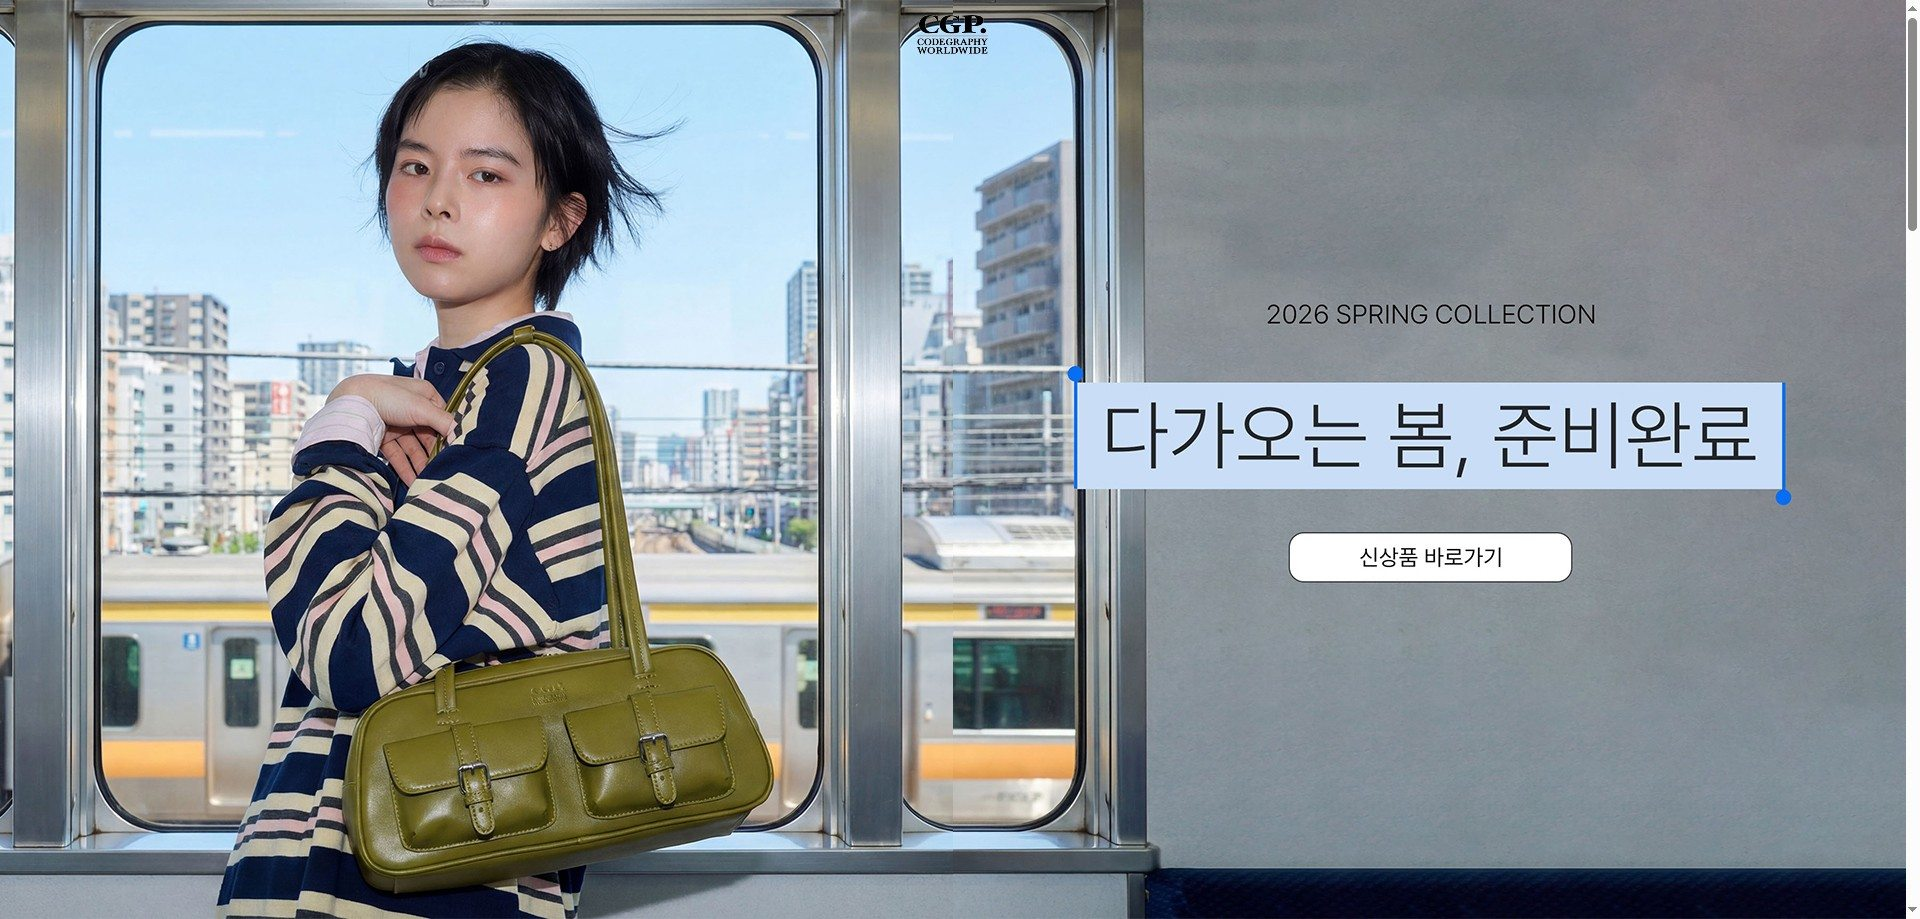
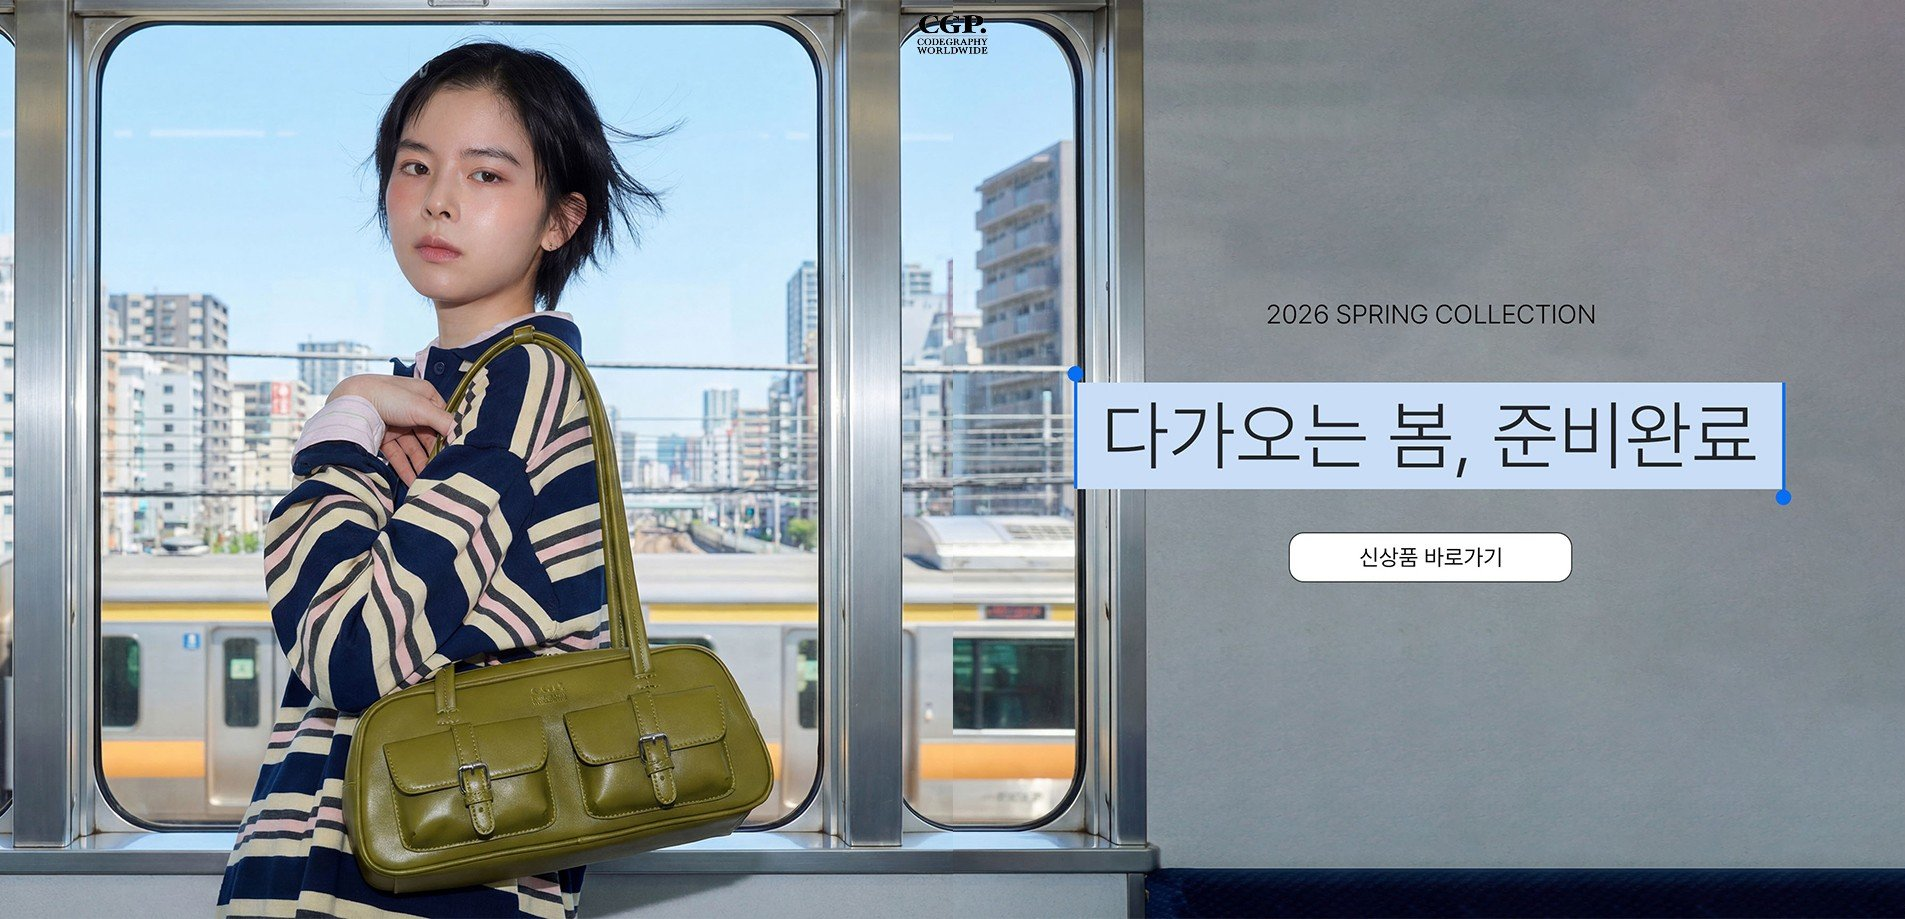
PC 배너 4장의 오른쪽 스크롤바 띠 제거(15px 크롭)

diff --git a/work/codegraphy.html b/work/codegraphy.html
@@ -89,10 +89,10 @@
       </div>
     </div>
       <article class="pw" data-cat="event" id="w01">
-        <header class="pw__h"><div class="pw__h-in"><span class="pw__n">01</span><p class="pw__rule"><span>웹디자이너로써</span><i></i><b>기획전·배너</b><i></i><span>제작을 했습니다.</span></p><div class="pw__t"><h3><em>[ 코드그라피 ]</em> 가을 시즌 배너</h3><p>가을 시즌 신상 PC 배너와 모바일 배너</p><dl class="pw__meta"><div><dt>프로젝트 기간</dt><dd>2025.09</dd></div><div><dt>Main Colors</dt><dd class="pw__chips"><i style="--c:#F8F7F4"></i>F8F7F4<i style="--c:#A49F9D"></i>A49F9D</dd></div></dl></div></div></header>
+        <header class="pw__h"><div class="pw__h-in"><span class="pw__n">01</span><p class="pw__rule"><span>웹디자이너로써</span><i></i><b>기획전·배너</b><i></i><span>제작을 했습니다.</span></p><div class="pw__t"><h3><em>[ 코드그라피 ]</em> 가을 시즌 배너</h3><p>가을 시즌 신상 PC 배너와 모바일 배너</p><dl class="pw__meta"><div><dt>프로젝트 기간</dt><dd>2025.09</dd></div><div><dt>Main Colors</dt><dd class="pw__chips"><i style="--c:#F8F7F4"></i>F8F7F4<i style="--c:#A5A09D"></i>A5A09D</dd></div></dl></div></div></header>
         <div class="pw__body">
         <div class="pw__tri">
-          <figure class="pw__img pw__img--tri" style="--ar:2.085"><figcaption>PC</figcaption><img src="../images/work/cg-fall-pc.jpg" width="1920" height="921" alt="코드그라피 PC 배너" loading="lazy" decoding="async"></figure>
+          <figure class="pw__img pw__img--tri" style="--ar:2.068"><figcaption>PC</figcaption><img src="../images/work/cg-fall-pc.jpg" width="1905" height="921" alt="코드그라피 PC 배너" loading="lazy" decoding="async"></figure>
           <figure class="pw__img pw__img--tri" style="--ar:0.650"><figcaption>MOBILE</figcaption><img src="../images/work/cg-fall-mo.jpg" width="786" height="1210" alt="코드그라피 모바일 배너" loading="lazy" decoding="async"></figure>
         </div>
         </div>
@@ -128,19 +128,19 @@
         </div>
       </article>
       <article class="pw" data-cat="event" id="w06">
-        <header class="pw__h"><div class="pw__h-in"><span class="pw__n">06</span><p class="pw__rule"><span>웹디자이너로써</span><i></i><b>기획전·배너</b><i></i><span>제작을 했습니다.</span></p><div class="pw__t"><h3><em>[ 코드그라피 ]</em> 새해 배너</h3><p>AI로 제작한 2026 새해 PC 배너와 모바일 배너</p><dl class="pw__meta"><div><dt>프로젝트 기간</dt><dd>2026.01</dd></div><div><dt>Main Colors</dt><dd class="pw__chips"><i style="--c:#F89F7F"></i>F89F7F<i style="--c:#FA2D31"></i>FA2D31</dd></div></dl></div></div></header>
+        <header class="pw__h"><div class="pw__h-in"><span class="pw__n">06</span><p class="pw__rule"><span>웹디자이너로써</span><i></i><b>기획전·배너</b><i></i><span>제작을 했습니다.</span></p><div class="pw__t"><h3><em>[ 코드그라피 ]</em> 새해 배너</h3><p>AI로 제작한 2026 새해 PC 배너와 모바일 배너</p><dl class="pw__meta"><div><dt>프로젝트 기간</dt><dd>2026.01</dd></div><div><dt>Main Colors</dt><dd class="pw__chips"><i style="--c:#F8A07F"></i>F8A07F<i style="--c:#FA2D31"></i>FA2D31</dd></div></dl></div></div></header>
         <div class="pw__body">
         <div class="pw__tri">
-          <figure class="pw__img pw__img--tri" style="--ar:2.089"><figcaption>PC</figcaption><img src="../images/work/cg-newyear-pc.jpg" width="1920" height="919" alt="코드그라피 PC 배너" loading="lazy" decoding="async"></figure>
+          <figure class="pw__img pw__img--tri" style="--ar:2.073"><figcaption>PC</figcaption><img src="../images/work/cg-newyear-pc.jpg" width="1905" height="919" alt="코드그라피 PC 배너" loading="lazy" decoding="async"></figure>
           <figure class="pw__img pw__img--tri" style="--ar:0.650"><figcaption>MOBILE</figcaption><img src="../images/work/cg-newyear-mo.jpg" width="786" height="1210" alt="코드그라피 모바일 배너" loading="lazy" decoding="async"></figure>
         </div>
         </div>
       </article>
       <article class="pw" data-cat="event" id="w07">
-        <header class="pw__h"><div class="pw__h-in"><span class="pw__n">07</span><p class="pw__rule"><span>웹디자이너로써</span><i></i><b>기획전·배너</b><i></i><span>제작을 했습니다.</span></p><div class="pw__t"><h3><em>[ 코드그라피 ]</em> 봄 시즌 배너</h3><p>2026 SPRING COLLECTION 신상품 PC 배너와 모바일 배너</p><dl class="pw__meta"><div><dt>프로젝트 기간</dt><dd>2026.03</dd></div><div><dt>Main Colors</dt><dd class="pw__chips"><i style="--c:#797C80"></i>797C80<i style="--c:#ACBDCC"></i>ACBDCC</dd></div></dl></div></div></header>
+        <header class="pw__h"><div class="pw__h-in"><span class="pw__n">07</span><p class="pw__rule"><span>웹디자이너로써</span><i></i><b>기획전·배너</b><i></i><span>제작을 했습니다.</span></p><div class="pw__t"><h3><em>[ 코드그라피 ]</em> 봄 시즌 배너</h3><p>2026 SPRING COLLECTION 신상품 PC 배너와 모바일 배너</p><dl class="pw__meta"><div><dt>프로젝트 기간</dt><dd>2026.03</dd></div><div><dt>Main Colors</dt><dd class="pw__chips"><i style="--c:#859099"></i>859099<i style="--c:#C5E9FB"></i>C5E9FB</dd></div></dl></div></div></header>
         <div class="pw__body">
         <div class="pw__tri">
-          <figure class="pw__img pw__img--tri" style="--ar:2.089"><figcaption>PC</figcaption><img src="../images/work/cg-spring-pc.jpg" width="1920" height="919" alt="코드그라피 PC 배너" loading="lazy" decoding="async"></figure>
+          <figure class="pw__img pw__img--tri" style="--ar:2.073"><figcaption>PC</figcaption><img src="../images/work/cg-spring-pc.jpg" width="1905" height="919" alt="코드그라피 PC 배너" loading="lazy" decoding="async"></figure>
           <figure class="pw__img pw__img--tri" style="--ar:0.650"><figcaption>MOBILE</figcaption><img src="../images/work/cg-spring-mo.jpg" width="786" height="1210" alt="코드그라피 모바일 배너" loading="lazy" decoding="async"></figure>
         </div>
         </div>
@@ -173,10 +173,10 @@
         </div>
       </article>
       <article class="pw" data-cat="event" id="w11">
-        <header class="pw__h"><div class="pw__h-in"><span class="pw__n">11</span><p class="pw__rule"><span>웹디자이너로써</span><i></i><b>기획전·배너</b><i></i><span>제작을 했습니다.</span></p><div class="pw__t"><h3><em>[ 코드그라피 ]</em> 겨울 시즌 배너</h3><p>AI로 제작한 겨울 시즌 PC 배너와 모바일 배너</p><dl class="pw__meta"><div><dt>프로젝트 기간</dt><dd>2026.11</dd></div><div><dt>Main Colors</dt><dd class="pw__chips"><i style="--c:#524F4E"></i>524F4E<i style="--c:#CDCDC7"></i>CDCDC7</dd></div></dl></div></div></header>
+        <header class="pw__h"><div class="pw__h-in"><span class="pw__n">11</span><p class="pw__rule"><span>웹디자이너로써</span><i></i><b>기획전·배너</b><i></i><span>제작을 했습니다.</span></p><div class="pw__t"><h3><em>[ 코드그라피 ]</em> 겨울 시즌 배너</h3><p>AI로 제작한 겨울 시즌 PC 배너와 모바일 배너</p><dl class="pw__meta"><div><dt>프로젝트 기간</dt><dd>2026.11</dd></div><div><dt>Main Colors</dt><dd class="pw__chips"><i style="--c:#52504F"></i>52504F<i style="--c:#CFCEC7"></i>CFCEC7</dd></div></dl></div></div></header>
         <div class="pw__body">
         <div class="pw__tri">
-          <figure class="pw__img pw__img--tri" style="--ar:2.259"><figcaption>PC</figcaption><img src="../images/work/cg-winter-pc.jpg" width="1920" height="850" alt="코드그라피 PC 배너" loading="lazy" decoding="async"></figure>
+          <figure class="pw__img pw__img--tri" style="--ar:2.241"><figcaption>PC</figcaption><img src="../images/work/cg-winter-pc.jpg" width="1905" height="850" alt="코드그라피 PC 배너" loading="lazy" decoding="async"></figure>
           <figure class="pw__img pw__img--tri" style="--ar:0.650"><figcaption>MOBILE</figcaption><img src="../images/work/cg-winter-mo.jpg" width="786" height="1210" alt="코드그라피 모바일 배너" loading="lazy" decoding="async"></figure>
         </div>
         </div>
